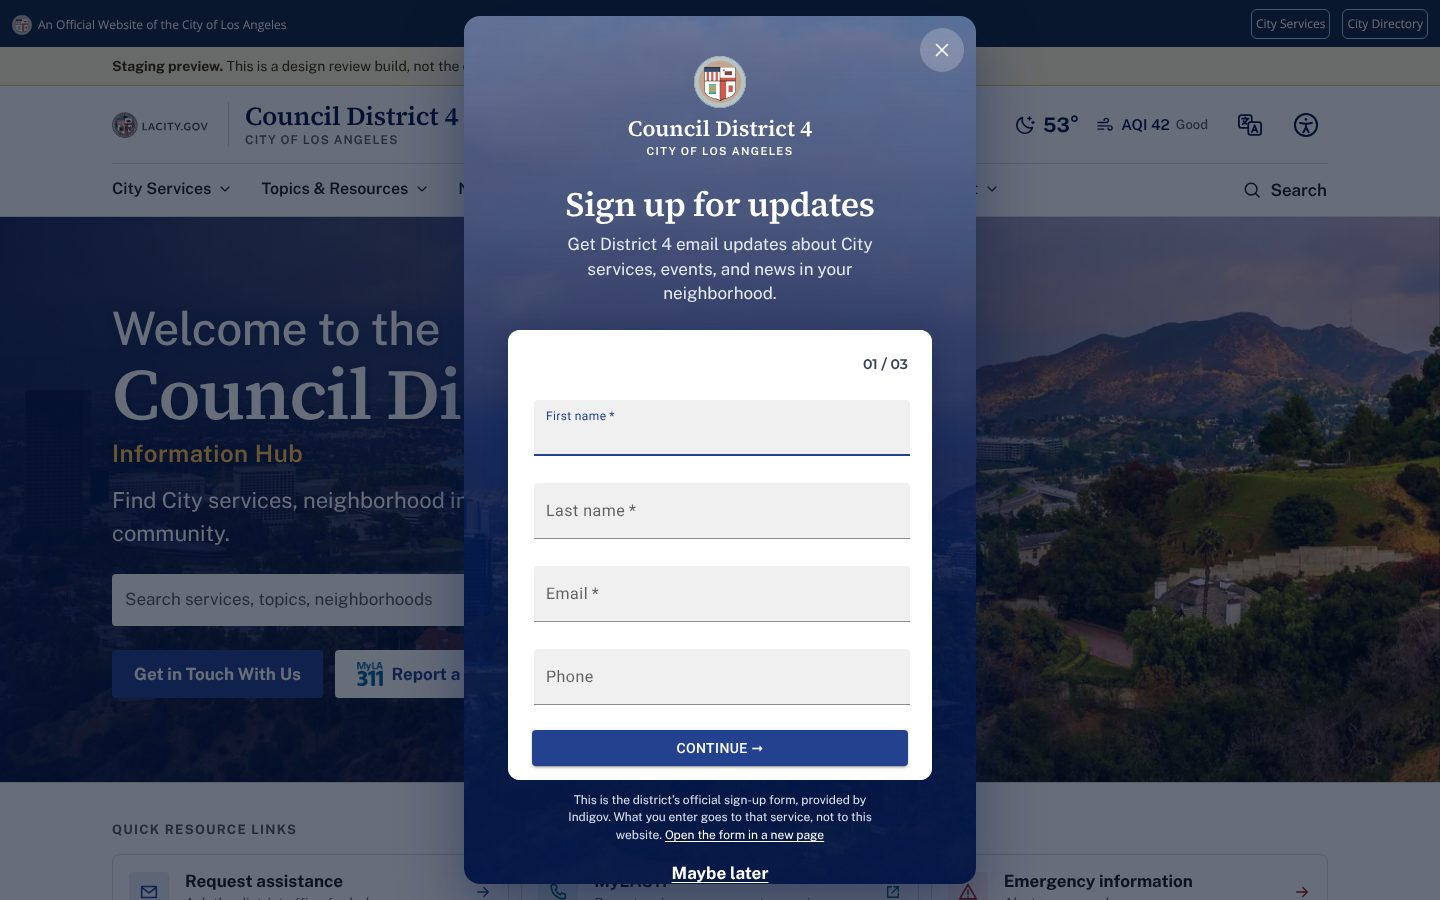
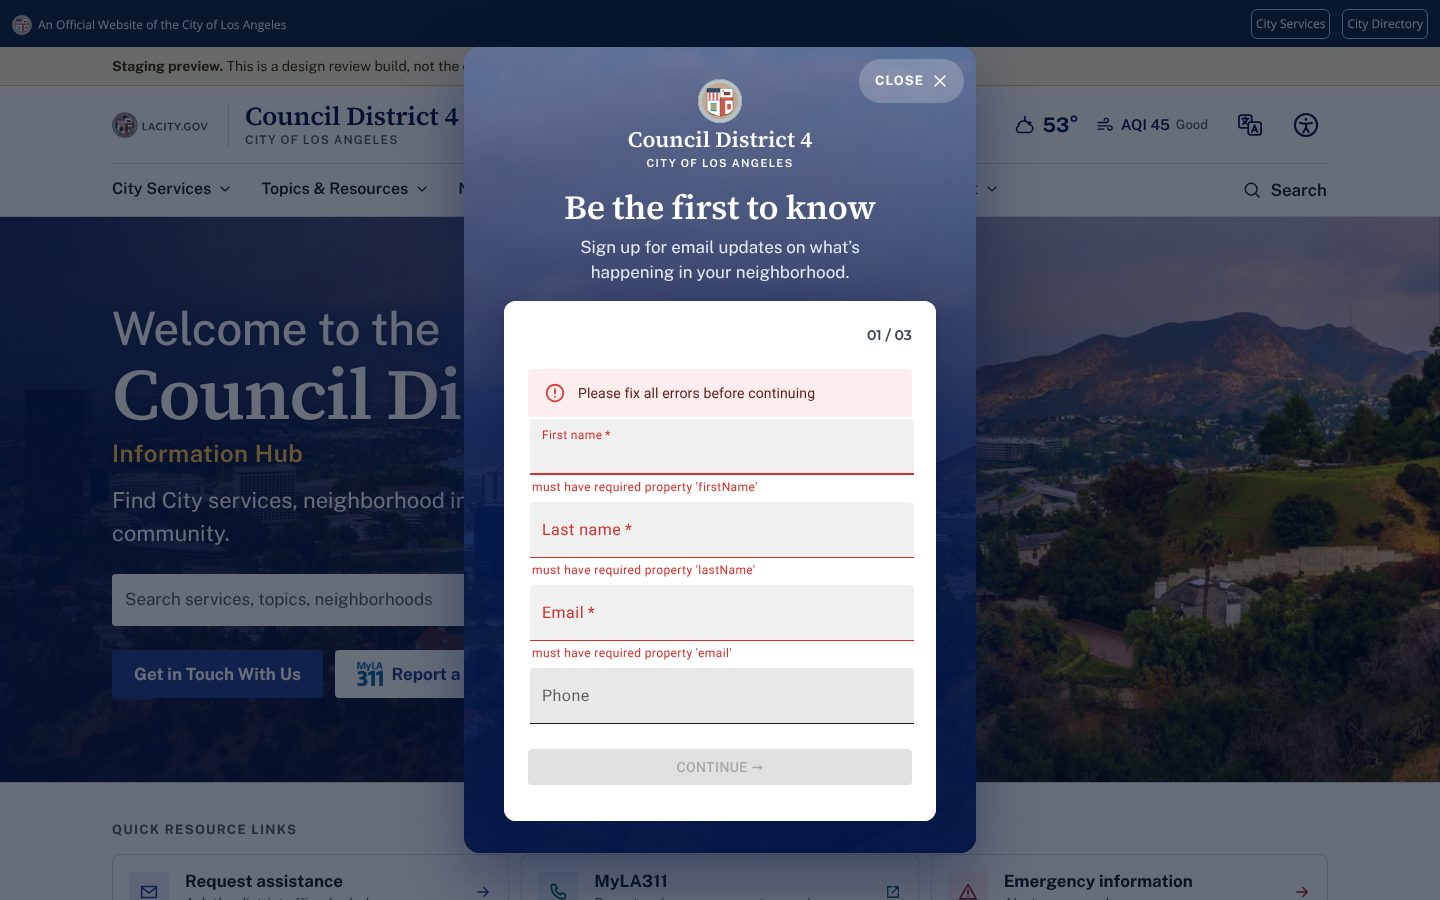
Sign-up prompt: shorter copy, labeled Close button, taller form area; remove note and Maybe later
Claude-Session: https://claude.ai/code/session_01YU6pJqnMBxtPTujsAPU4kF

diff --git a/styles/components.css b/styles/components.css
@@ -38,21 +38,17 @@ html[data-citynav="loaded"] #citybar-fallback { display: none; }
 .prompt::backdrop { background: rgb(4 12 34 / 0.6); }
 .prompt[open] { animation: prompt-in 220ms cubic-bezier(0.2, 0, 0, 1); }
 @keyframes prompt-in { from { opacity: 0; transform: translateY(12px); } }
-.prompt__inner { position: relative; display: grid; justify-items: center; text-align: center; padding: clamp(1.5rem, 5vw, 2.5rem) clamp(1.25rem, 5vw, 2.75rem) clamp(1.5rem, 5vw, 2.25rem); background-size: cover; background-position: center top; }
-.prompt__close { position: absolute; top: 0.75rem; right: 0.75rem; display: grid; place-items: center; width: 44px; height: 44px; border: 0; border-radius: 50%; background: rgb(255 255 255 / 0.22); color: #fff; }
+.prompt__inner { position: relative; display: grid; justify-items: center; text-align: center; padding: 1rem clamp(1.25rem, 5vw, 2.5rem) clamp(1.25rem, 4vw, 2rem); background-size: cover; background-position: center top; }
+.prompt__close { position: absolute; top: 0.75rem; right: 0.75rem; display: inline-flex; align-items: center; gap: 0.375rem; min-height: 44px; padding: 0 0.875rem 0 1rem; border: 0; border-radius: var(--radius-pill); background: rgb(255 255 255 / 0.22); color: #fff; font-size: 0.8125rem; font-weight: 700; letter-spacing: 0.08em; text-transform: uppercase; }
 .prompt__close:hover { background: rgb(255 255 255 / 0.38); }
-.prompt__brand { display: grid; justify-items: center; gap: var(--s2); }
-.prompt__brand img { width: 52px; height: 52px; border-radius: 50%; background: #fff; }
+.prompt__brand { display: grid; justify-items: center; gap: var(--s1); margin-top: var(--s4); }
+.prompt__brand img { width: 44px; height: 44px; border-radius: 50%; background: #fff; }
 .prompt__name { display: block; font-family: var(--font-serif); font-weight: 600; font-size: 1.375rem; line-height: 1.15; }
 .prompt__sub { display: block; font-size: 0.6875rem; font-weight: 600; letter-spacing: 0.12em; text-transform: uppercase; margin-top: 2px; }
-.prompt h2 { margin-top: var(--s5); color: #fff; font-size: clamp(1.625rem, 1.2rem + 2vw, 2.125rem); }
+.prompt h2 { margin-top: var(--s4); color: #fff; font-size: clamp(1.625rem, 1.2rem + 2vw, 2.125rem); }
 .prompt #prompt-body { margin-top: var(--s2); max-width: 34ch; font-size: var(--step-0); line-height: 1.45; color: #e6ebf7; }
-.prompt__form { width: 100%; margin-top: var(--s5); border-radius: 0.75rem; background: #fff; overflow: hidden; box-shadow: 0 8px 24px rgb(4 24 74 / 0.3); }
+.prompt__form { width: 100%; margin-top: var(--s4); border-radius: 0.75rem; background: #fff; overflow: hidden; box-shadow: 0 8px 24px rgb(4 24 74 / 0.3); }
 .prompt__form iframe { display: block; width: 100%; border: 0; background: #fff; }
-.prompt__note { margin-top: var(--s3); font-size: 0.75rem; line-height: 1.45; color: #dfe5f3; max-width: 46ch; }
-.prompt__note a { color: #fff; }
-.prompt__later { margin-top: var(--s2); min-height: 44px; padding: 0 var(--s4); border: 0; background: none; color: #fff; font-weight: 700; text-decoration: underline; text-underline-offset: 0.2em; border-radius: var(--radius-s); }
-.prompt__later:hover { background: rgb(255 255 255 / 0.14); }
 
 /* ---------- Masthead + primary nav ---------- */
 .site-header { background: #fff; border-bottom: 1px solid var(--line); position: relative; z-index: 50; }

diff --git a/components/SignupPrompt.tsx b/components/SignupPrompt.tsx
@@ -12,7 +12,7 @@ export const PROMPT_KEY = "cd4-signup-prompt";
  * Sign-up prompt: a modal shown once, a few seconds into a visit, framing the existing Indigov sign-up form.
  * This site adds no form fields of its own and never sees what is typed.
  * - Native <dialog>, so focus is contained, Escape closes it, and focus returns to where the visitor was.
- * - Closing it in any way (Maybe later, the X, Escape, clicking outside) records the time in this
+ * - Closing it in any way (the Close button, Escape, clicking outside) records the time in this
  *   browser; it is not shown again for site.signupPrompt.quietDays days.
  * - It waits its turn: if the visitor is typing or another menu or dialog is open, it tries again later.
  * - Never shown on the sign-up page itself.
@@ -57,7 +57,7 @@ export function SignupPrompt() {
       onClick={(e) => { if (e.target === e.currentTarget) e.currentTarget.close(); }}>
       <div className="prompt__inner" style={{ backgroundImage: `linear-gradient(180deg, rgb(4 24 74 / 0.55) 0%, rgb(4 24 74 / 0.86) 48%, rgb(4 24 74 / 0.97) 100%), url(${heroPhoto.src})` }}>
         <button type="button" className="prompt__close" onClick={() => ref.current?.close()}>
-          <Icon name="close" size={22} /><span className="visually-hidden">Close</span>
+          <span>Close</span><Icon name="close" size={20} />
         </button>
         <p className="prompt__brand">
           <Image src="/brand/la-city-seal.svg" alt="" width={56} height={56} unoptimized />
@@ -68,11 +68,6 @@ export function SignupPrompt() {
         <div className="prompt__form">
           {shown && <iframe title="Sign up for updates form" src={cfg.formUrl} height={cfg.formHeight} referrerPolicy="strict-origin-when-cross-origin" />}
         </div>
-        <p className="prompt__note">
-          This is the district’s official sign-up form, provided by Indigov. What you enter goes to that service, not to this website.{" "}
-          <a href={cfg.formUrl} rel="noopener noreferrer">Open the form in a new page<span className="visually-hidden"> (external site)</span></a>
-        </p>
-        <button type="button" className="prompt__later" onClick={() => ref.current?.close()}>{cfg.later}</button>
       </div>
     </dialog>
   );

diff --git a/tests/site.spec.ts b/tests/site.spec.ts
@@ -484,7 +484,8 @@ test.describe("sign-up prompt", () => {
     await page.waitForTimeout(4500);
     await expect(dialog).toBeHidden(); // not before six seconds
     await expect(dialog).toBeVisible({ timeout: 4000 });
-    await expect(dialog.getByRole("heading", { level: 2 })).toHaveText("Sign up for updates");
+    await expect(dialog.getByRole("heading", { level: 2 })).toHaveText("Be the first to know");
+    await expect(dialog).toContainText("what’s happening in your neighborhood");
     await expect(dialog).toContainText("Council District 4");
     await expect(dialog.locator("img")).toHaveAttribute("src", /la-city-seal/);
     await expect(dialog.locator(".prompt__inner")).toHaveCSS("background-image", /cd4-hills-panorama/);
@@ -493,8 +494,10 @@ test.describe("sign-up prompt", () => {
     await expect(frame).toHaveAttribute("title", "Sign up for updates form");
     await expect(frame).toHaveAttribute("src", /^https:\/\/forms\.indigov\.com\/customers\/councilmember-nithyaraman\/ea1b0b81/);
     await expect(dialog.locator("input, textarea, select")).toHaveCount(0);
-    await expect(dialog.getByRole("button", { name: "Close" })).toBeVisible();
-    await dialog.getByRole("button", { name: "Maybe later" }).click();
+    await expect(dialog.getByRole("button", { name: "Close" })).toHaveText("Close"); // visible label beside the X
+    await expect(dialog.getByText(/Maybe later|provided by Indigov/)).toHaveCount(0);
+    expect(Number(await frame.getAttribute("height"))).toBeGreaterThanOrEqual(520); // room for the form's error messages
+    await dialog.getByRole("button", { name: "Close" }).click();
     await expect(dialog).toBeHidden();
     await page.reload();
     await page.waitForTimeout(7500);

diff --git a/content/site.ts b/content/site.ts
@@ -48,11 +48,11 @@ export const site = {
     delayMs: 6000,
     /** After it is closed, do not show it again for this many days. */
     quietDays: 30,
-    heading: "Sign up for updates",
-    body: "Get District 4 email updates about City services, events, and news in your neighborhood.",
-    later: "Maybe later",
+    heading: "Be the first to know",
+    body: "Sign up for email updates on what’s happening in your neighborhood.",
     formUrl: "https://forms.indigov.com/customers/councilmember-nithyaraman/ea1b0b81-fd18-49ad-ac34-4eb39ae86388",
-    formHeight: 450,
+    /** Tall enough for the form's first step with all of its validation messages showing, so its button stays in view. */
+    formHeight: 520,
     /** Page the prompt is never shown on. */
     href: "/sign-up/",
   },

diff --git a/docs/design-system.md b/docs/design-system.md
@@ -101,7 +101,7 @@ Right side of the masthead: weather and air quality, a language icon, an accessi
 
 ## Sign-up prompt
 
-`components/SignupPrompt.tsx`, configured in `content/site.ts → signupPrompt`. A native modal `<dialog>` opens six seconds into a visit: hero photo darkened with navy, City seal and "Council District 4" at top center, heading, one sentence, the district's existing Indigov sign-up form in a frame, and "Maybe later". Once closed it stays away for 30 days (stored in the browser). It is not shown on `/sign-up/`, and it waits if the visitor is typing or has a menu open. The form's fields, steps and button color belong to Indigov and cannot be changed from this site.
+`components/SignupPrompt.tsx`, configured in `content/site.ts → signupPrompt`. A native modal `<dialog>` opens six seconds into a visit: hero photo darkened with navy, City seal and "Council District 4" at top center, a "Close" button, heading, one sentence, and the district's existing Indigov sign-up form in a frame tall enough to keep its button visible when validation messages appear. Once closed it stays away for 30 days (stored in the browser). It is not shown on `/sign-up/`, and it waits if the visitor is typing or has a menu open. The form's fields, steps and button color belong to Indigov and cannot be changed from this site.
 
 ## Official marks
 
